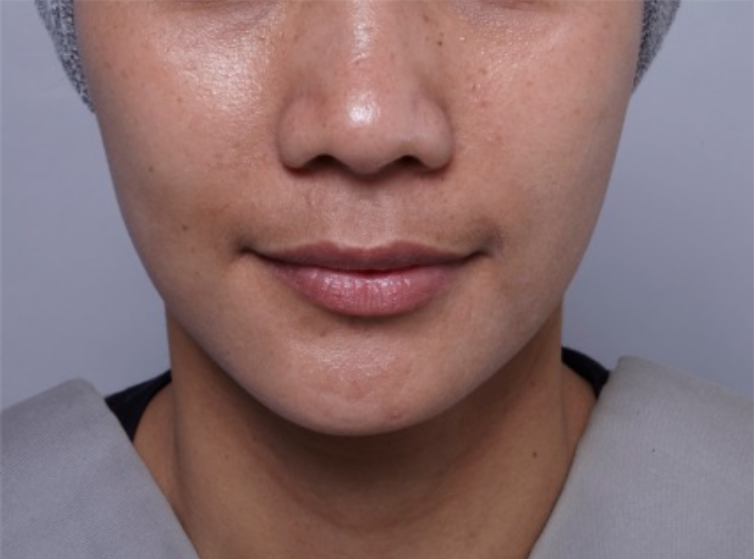
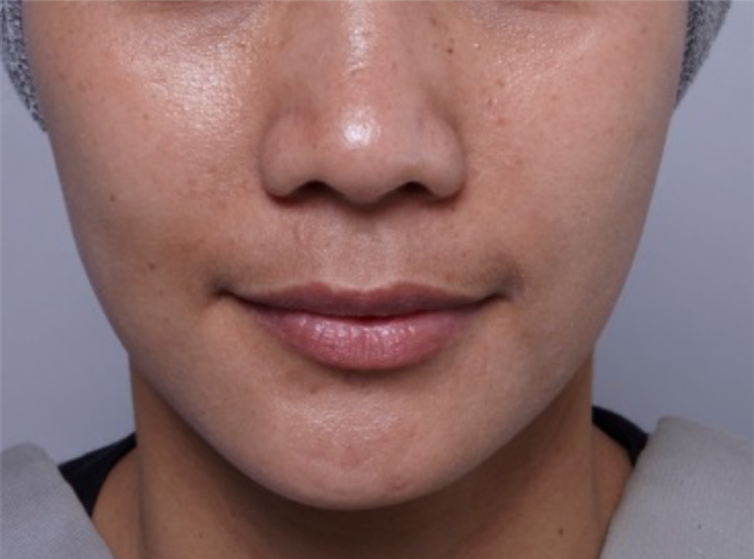
効果画像比率変更

diff --git a/Share Beauty App/Views/UTMViews/UtmEfficacyView.m b/Share Beauty App/Views/UTMViews/UtmEfficacyView.m
@@ -795,23 +795,23 @@
                       tracking:0
                     lineHeight:0 red:NO bold:NO];
         
-        //After Left Image   410 × 560
-        [self showUtmImage:CGRectMake(188, 108, 205, 280) image:@"MoisturizingCream01_after"];
+        //After Left Image   410 × 560 >正寸467 × 558>233 × 279
+        [self showUtmImage:CGRectMake(188, 108, 233, 280) image:@"MoisturizingCream01_after"];
         
         //Before Left Image
-        self.utm01 = [[UIImageView alloc]initWithFrame:CGRectMake(188, 108, 205, 280)];
+        self.utm01 = [[UIImageView alloc]initWithFrame:CGRectMake(188, 108, 233, 280)];
         UIImage *utm01image = [UIImage imageNamed:@"MoisturizingCream01_before"];
         self.utm01.image = utm01image;
         [scrollView addSubview:self.utm01];
         
         //Right Image
-        UIImageView *utm02_bafter = [[UIImageView alloc]initWithFrame:CGRectMake(640, 108, 205, 280)];
+        UIImageView *utm02_bafter = [[UIImageView alloc]initWithFrame:CGRectMake(640, 108, 233, 280)];
         UIImage *utm02image_bafter = [UIImage imageNamed:@"MoisturizingCream02_after"];
         utm02_bafter.image = utm02image_bafter;
         [scrollView addSubview:utm02_bafter];
         
         //Before Right Image
-        self.utm02 = [[UIImageView alloc]initWithFrame:CGRectMake(640, 108, 205, 280)];
+        self.utm02 = [[UIImageView alloc]initWithFrame:CGRectMake(640, 108, 233, 280)];
         UIImage *utm02image = [UIImage imageNamed:@"MoisturizingCream02_before"];
         self.utm02.image = utm02image;
         [scrollView addSubview:self.utm02];
